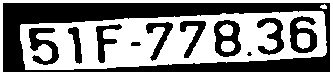
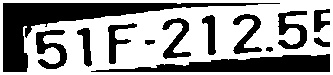
kim - capture img 10 times

diff --git a/Desktop/main-desktop.py b/Desktop/main-desktop.py
@@ -420,63 +420,67 @@ class UI(QMainWindow):
         dt = dt.strftime("%d/%m/%Y %H:%M:%S")  
 
         reset(self, 'entrance')
-        image = ImageQt.fromqpixmap(self.lblCamEntrance.pixmap())
-        path_capture_entrance = '../PBL5/capture/img-' + str(dt.day) + str(dt.month) + str(dt.year) + str(dt.hour) + str(dt.minute) + str(dt.second)+ '.jpg' 
-        image.save(path_capture_entrance) 
-        # get the absolute path in your computer
-        img = cv2.imread(path_capture_entrance)
-        char = process_liscense(self, img, 'entrance')
+        for _ in range(1, 10):
+            image = ImageQt.fromqpixmap(self.lblCamEntrance.pixmap())
+            path_capture_entrance = '../PBL5/capture/img-' + str(dt.day) + str(dt.month) + str(dt.year) + str(dt.hour) + str(dt.minute) + str(dt.second)+ '.jpg' 
+            image.save(path_capture_entrance) 
+            # get the absolute path in your computer
+            img = cv2.imread(path_capture_entrance)
+            char = process_liscense(self, img, 'entrance')
 
-        if char == '0' or len(char) < 8:
-            os.remove(path_capture_entrance)
-            show_error_messagebox()
-        else:
-            # self.lblImgEntrance.setPixmap(QtGui.QPixmap(path_capture_entrance))
-            print('Biển số xe vào: ' + str(len(char)))
+            if char == '0' or len(char) < 8:
+                os.remove(path_capture_entrance)
+                show_error_messagebox()
+            else:
+                # self.lblImgEntrance.setPixmap(QtGui.QPixmap(path_capture_entrance))
+                print('Biển số xe vào: ' + str(len(char)))
 
-            ##### Create data
-            createCheckIn(id_rfid_vao,str(char),dt)
+                ##### Create data
+                createCheckIn(id_rfid_vao,str(char),dt)
 
-            # Hiện khung chứa biển số được cắt
-            self.lblCutPlateIn.setPixmap(QtGui.QPixmap("plate_cut.jpg"))
-            list_plate[0] = char
+                # Hiện khung chứa biển số được cắt
+                self.lblCutPlateIn.setPixmap(QtGui.QPixmap("plate_cut.jpg"))
+                list_plate[0] = char
 
-            # Hiện khung chứa biển số được cắt ảnh trắng đen
-            self.lblGrayIn.setPixmap(QtGui.QPixmap("contour.jpg"))
-            self.txtPlateIn.setText(char)
+                # Hiện khung chứa biển số được cắt ảnh trắng đen
+                self.lblGrayIn.setPixmap(QtGui.QPixmap("contour.jpg"))
+                self.txtPlateIn.setText(char)
+                break
 
     def capture_exit(self):
         dt = datetime.now()
         dt = dt.strftime("%d/%m/%Y %H:%M:%S") 
 
         reset(self,'exit')
-        image = ImageQt.fromqpixmap(self.lblCamExit.pixmap())
-        dt = datetime.now()
-        path_capture_exit = '../PBL5/capture/img-' + str(dt.day) + str(dt.month) + str(dt.year) + str(dt.hour) + str(dt.minute) + str(dt.second)+ '.jpg' 
-        image.save(path_capture_exit) 
-        # get the absolute path in your computer
-        img = cv2.imread(path_capture_exit)
-        char = process_liscense(self, img, 'exit')
+        for _ in range(1,10):
+            image = ImageQt.fromqpixmap(self.lblCamExit.pixmap())
+            dt = datetime.now()
+            path_capture_exit = '../PBL5/capture/img-' + str(dt.day) + str(dt.month) + str(dt.year) + str(dt.hour) + str(dt.minute) + str(dt.second)+ '.jpg' 
+            image.save(path_capture_exit) 
+            # get the absolute path in your computer
+            img = cv2.imread(path_capture_exit)
+            char = process_liscense(self, img, 'exit')
 
-        if char == '0' or len(char) < 8:
-            os.remove(path_capture_exit)
-            show_error_messagebox()
-        else:
-            if getPlatebyRfid(id_rfid_ra) != None:
-                print('Biển số xe ra: ' + str(len(char)))
-                ########## data
-                createCheckOut(id_rfid_ra,str(char),dt)
-                    
-                # Hiện khung chứa biển số được cắt
-                self.lblCutOut.setPixmap(QtGui.QPixmap("plate_cut.jpg"))
-                list_plate[0] = char
-
-                # Hiện khung chứa biển số được cắt ảnh trắng đen
-                self.lblGrayOut.setPixmap(QtGui.QPixmap("contour.jpg"))
-                self.txtPlateOut.setText(char)
-            else:
+            if char == '0' or len(char) < 8:
                 os.remove(path_capture_exit)
-                show_error_messagebox('wrong_plate')
+                show_error_messagebox()
+            else:
+                if getPlatebyRfid(id_rfid_ra) != None:
+                    print('Biển số xe ra: ' + str(len(char)))
+                    ########## data
+                    createCheckOut(id_rfid_ra,str(char),dt)
+                        
+                    # Hiện khung chứa biển số được cắt
+                    self.lblCutOut.setPixmap(QtGui.QPixmap("plate_cut.jpg"))
+                    list_plate[0] = char
+
+                    # Hiện khung chứa biển số được cắt ảnh trắng đen
+                    self.lblGrayOut.setPixmap(QtGui.QPixmap("contour.jpg"))
+                    self.txtPlateOut.setText(char)
+                    break
+                else:
+                    os.remove(path_capture_exit)
+                    show_error_messagebox('wrong_plate')
 
     def update_image_entrance(self, cv_img):
         """Updates the image_label with a new opencv image"""
